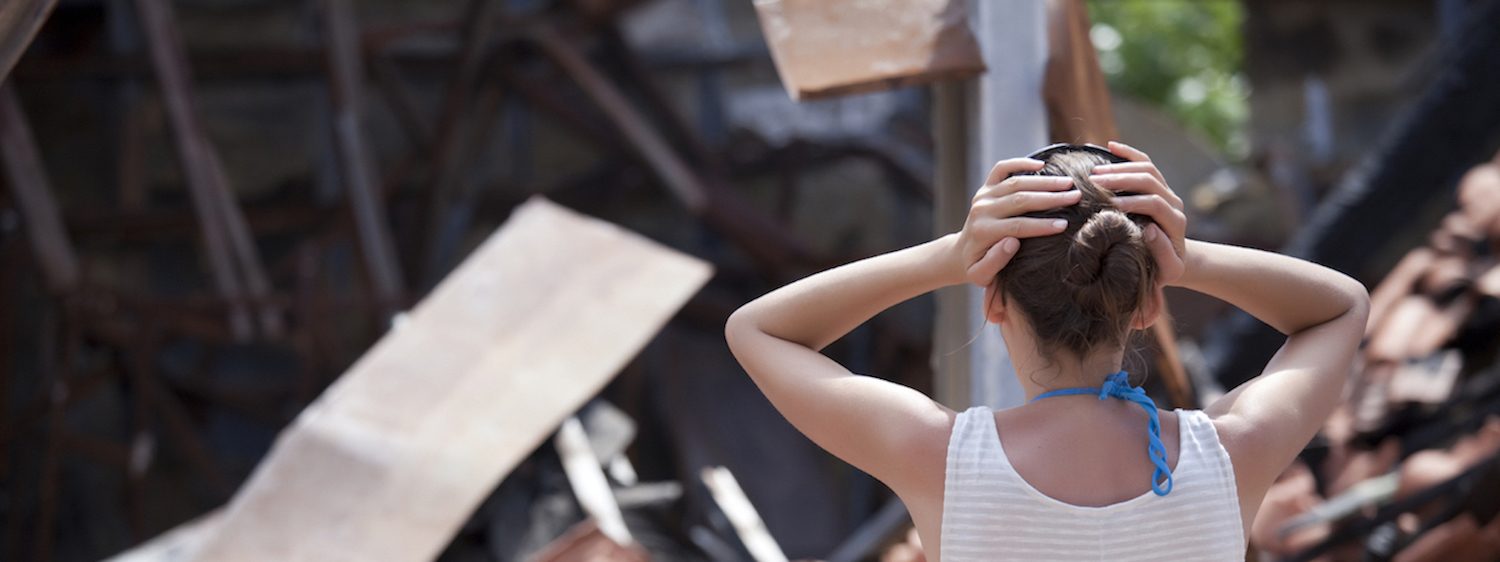
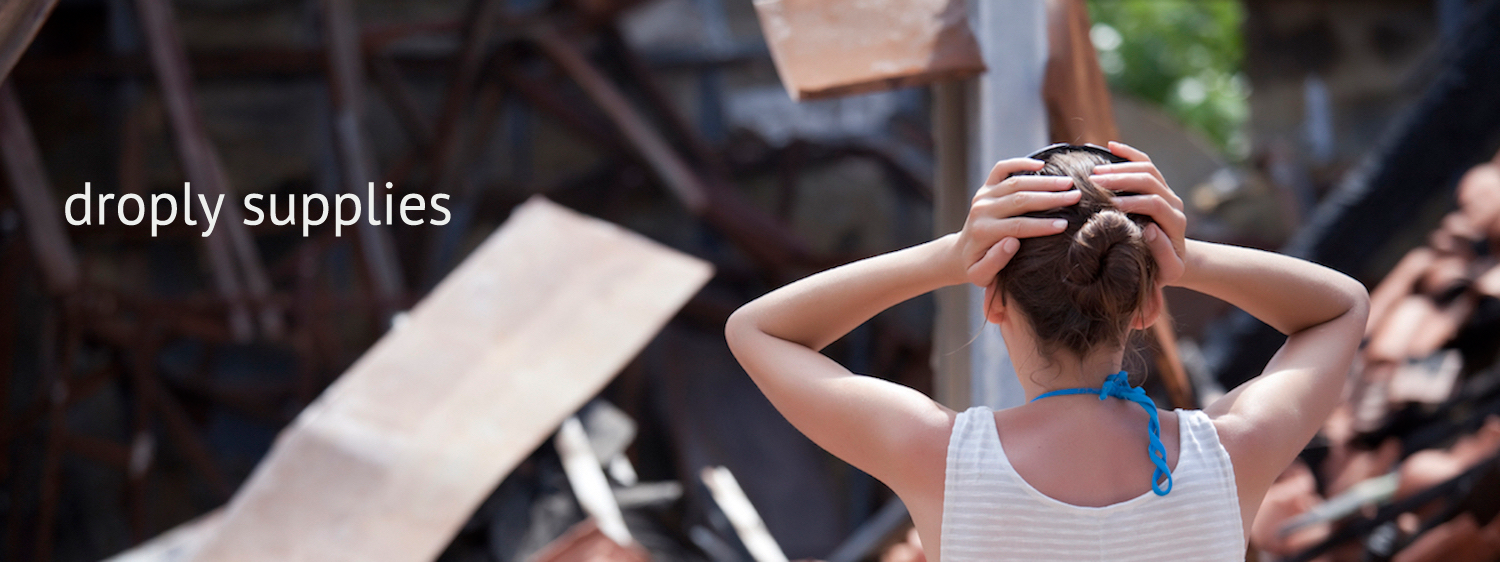
modified hero image and un xited a cart test

Changed region(s): [[0.0307, 0.3327, 0.3067, 0.4235], [0.7667, 0.726, 0.7973, 0.8772], [0.7053, 0.6655, 0.7667, 0.726]]

diff --git a/app/assets/stylesheets/custom.css.scss b/app/assets/stylesheets/custom.css.scss
@@ -165,6 +165,12 @@ li { list-style: none; }
   width: 100%;
 }
 
+.hero {
+  width: 105%;
+  margin-left: -20px;
+}
+
+
 .divider {
   border-bottom: 1px solid $site-black;
   padding-bottom: 20px;

diff --git a/spec/features/admin/dashboard_spec.rb b/spec/features/admin/dashboard_spec.rb
@@ -33,7 +33,7 @@ describe "admin dashboard" do
       expect(page).to have_content(@business.name)
     end
 
-    xit "approve request" do
+    it "approve request" do
       visit admin_dashboard_path
       expect(page).to have_content(@business.name)
       click_link_or_button("Approve")
